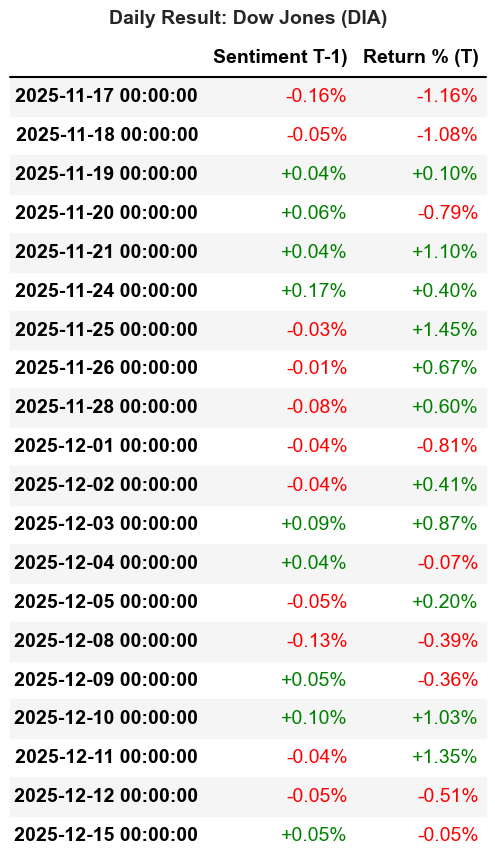
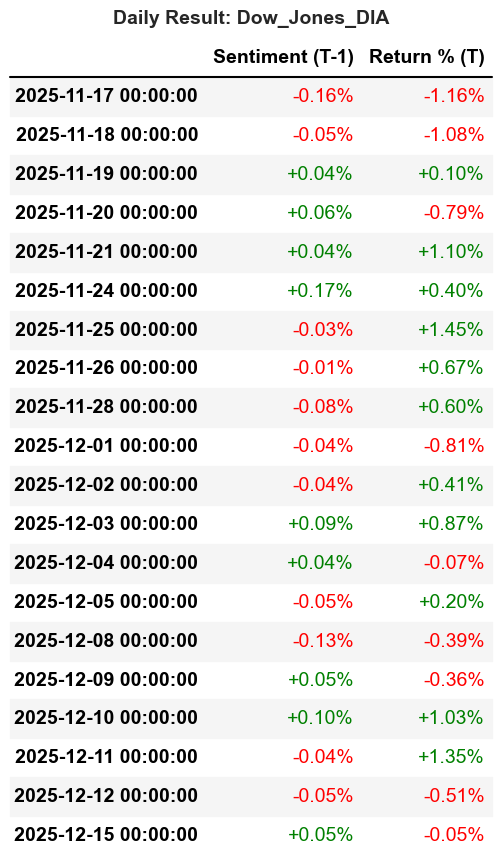
Rename the pics

diff --git a/README.md b/README.md
@@ -1,0 +1,54 @@
+# Financial News Sentiment Analysis & Stock Correlation
+![Sentiment Analysis Result](notebooks/plots/sentiment_correlation_check.png)
+
+## 📖 專案簡介 (Project Overview)
+本專案旨在利用自然語言處理 (NLP) 技術分析財經新聞的情緒，並探討該情緒指標與美股主要指數（S&P 500, NASDAQ, Dow Jones, Russell 2000）之間的相關性。
+
+## 💾 資料來源 (Data Source)
+本專案使用兩類不同的資料來源：
+
+### 1. 模型訓練資料 (Model Fine-Tuning Data)
+* **來源**: [Kaggle - Sentiment Analysis for Financial News](https://www.kaggle.com/datasets/ankurzing/sentiment-analysis-for-financial-news?select=all-data.csv)
+* **描述**: 使用該資料集中的 4,846 筆帶有情緒標籤（Positive, Neutral, Negative）的財經新聞標題，對 BERT 模型進行微調 (Fine-tuning)，使其具備判讀財經文本情緒的能力。
+
+### 2. 市場分析資料 (Market Analysis Data)
+本專案針對**過去 30 天**的市場動態進行分析，數據獲取分為文本與數值兩條路徑：
+
+* **新聞文本 (News Text Data)**
+    * **來源**: Google News (透過爬蟲技術獲取)
+    * **範圍**: 過去 30 天
+    * **用途**: 獲取標題與摘要，輸入微調後的 BERT 模型以計算每日情緒分數 (Sentiment Score)。
+
+* **市場數值 (Stock Market Data)**
+    * **來源**: Yahoo Finance (透過 `yfinance` API)
+    * **範圍**: 過去 30 天
+    * **用途**: 獲取目標指數的每日收盤價 (Close Price) 與成交量，用於與情緒指標進行時間序列對齊與相關性分析。
+## 技術棧 (Tech Stack)
+* **語言**: Python 3.x
+* **數據處理**: Pandas, NumPy
+* **NLP 模型**: BERT (Bidirectional Encoder Representations from Transformers)
+* **視覺化**: Matplotlib, Seaborn / Plotly
+* **資料來源**: Yahoo Finance (Scraping)
+
+## 專案結構 (Project Structure)
+本專案依照數據處理流程分為四個主要步驟：
+
+1.  **01_scraper.ipynb**: 
+    * 負責從財經新聞網站爬取標題與內文。
+    * 資料清洗與初步格式化。
+2.  **02_bert_training.ipynb**: 
+    * 載入預訓練 BERT 模型。
+    * 針對財經文本進行微調 (Fine-tuning) 或直接推論。
+3.  **03_inference.ipynb**: 
+    * 將爬取的新聞資料輸入模型，計算情緒分數 (Sentiment Score)。
+4.  **04_analysis.ipynb**: 
+    * 整合情緒分數與股價數據。
+    * 進行時間序列分析與相關性檢定。
+    * 產出視覺化圖表。
+
+## 📊 分析結果 (Key Results)
+### 相關性熱力圖 (Correlation Heatmap)
+| S&P 500 | NASDAQ-100 | Dow Jones (DIA) | Small Cap (IWM) |
+| :-: | :-: | :-: | :-: |
+| ![SPY](notebooks/plots/heatmap_S&P%20500%20(SPY).png) | ![QQQ](notebooks/plots/heatmap_NASDAQ-100%20(QQQ).png) | ![DIA](notebooks/plots/heatmap_Dow%20Jones (DIA).png) | ![IWM](notebooks/plots/heatmap_NASDAQ-100%20(QQQ).png) |
+
